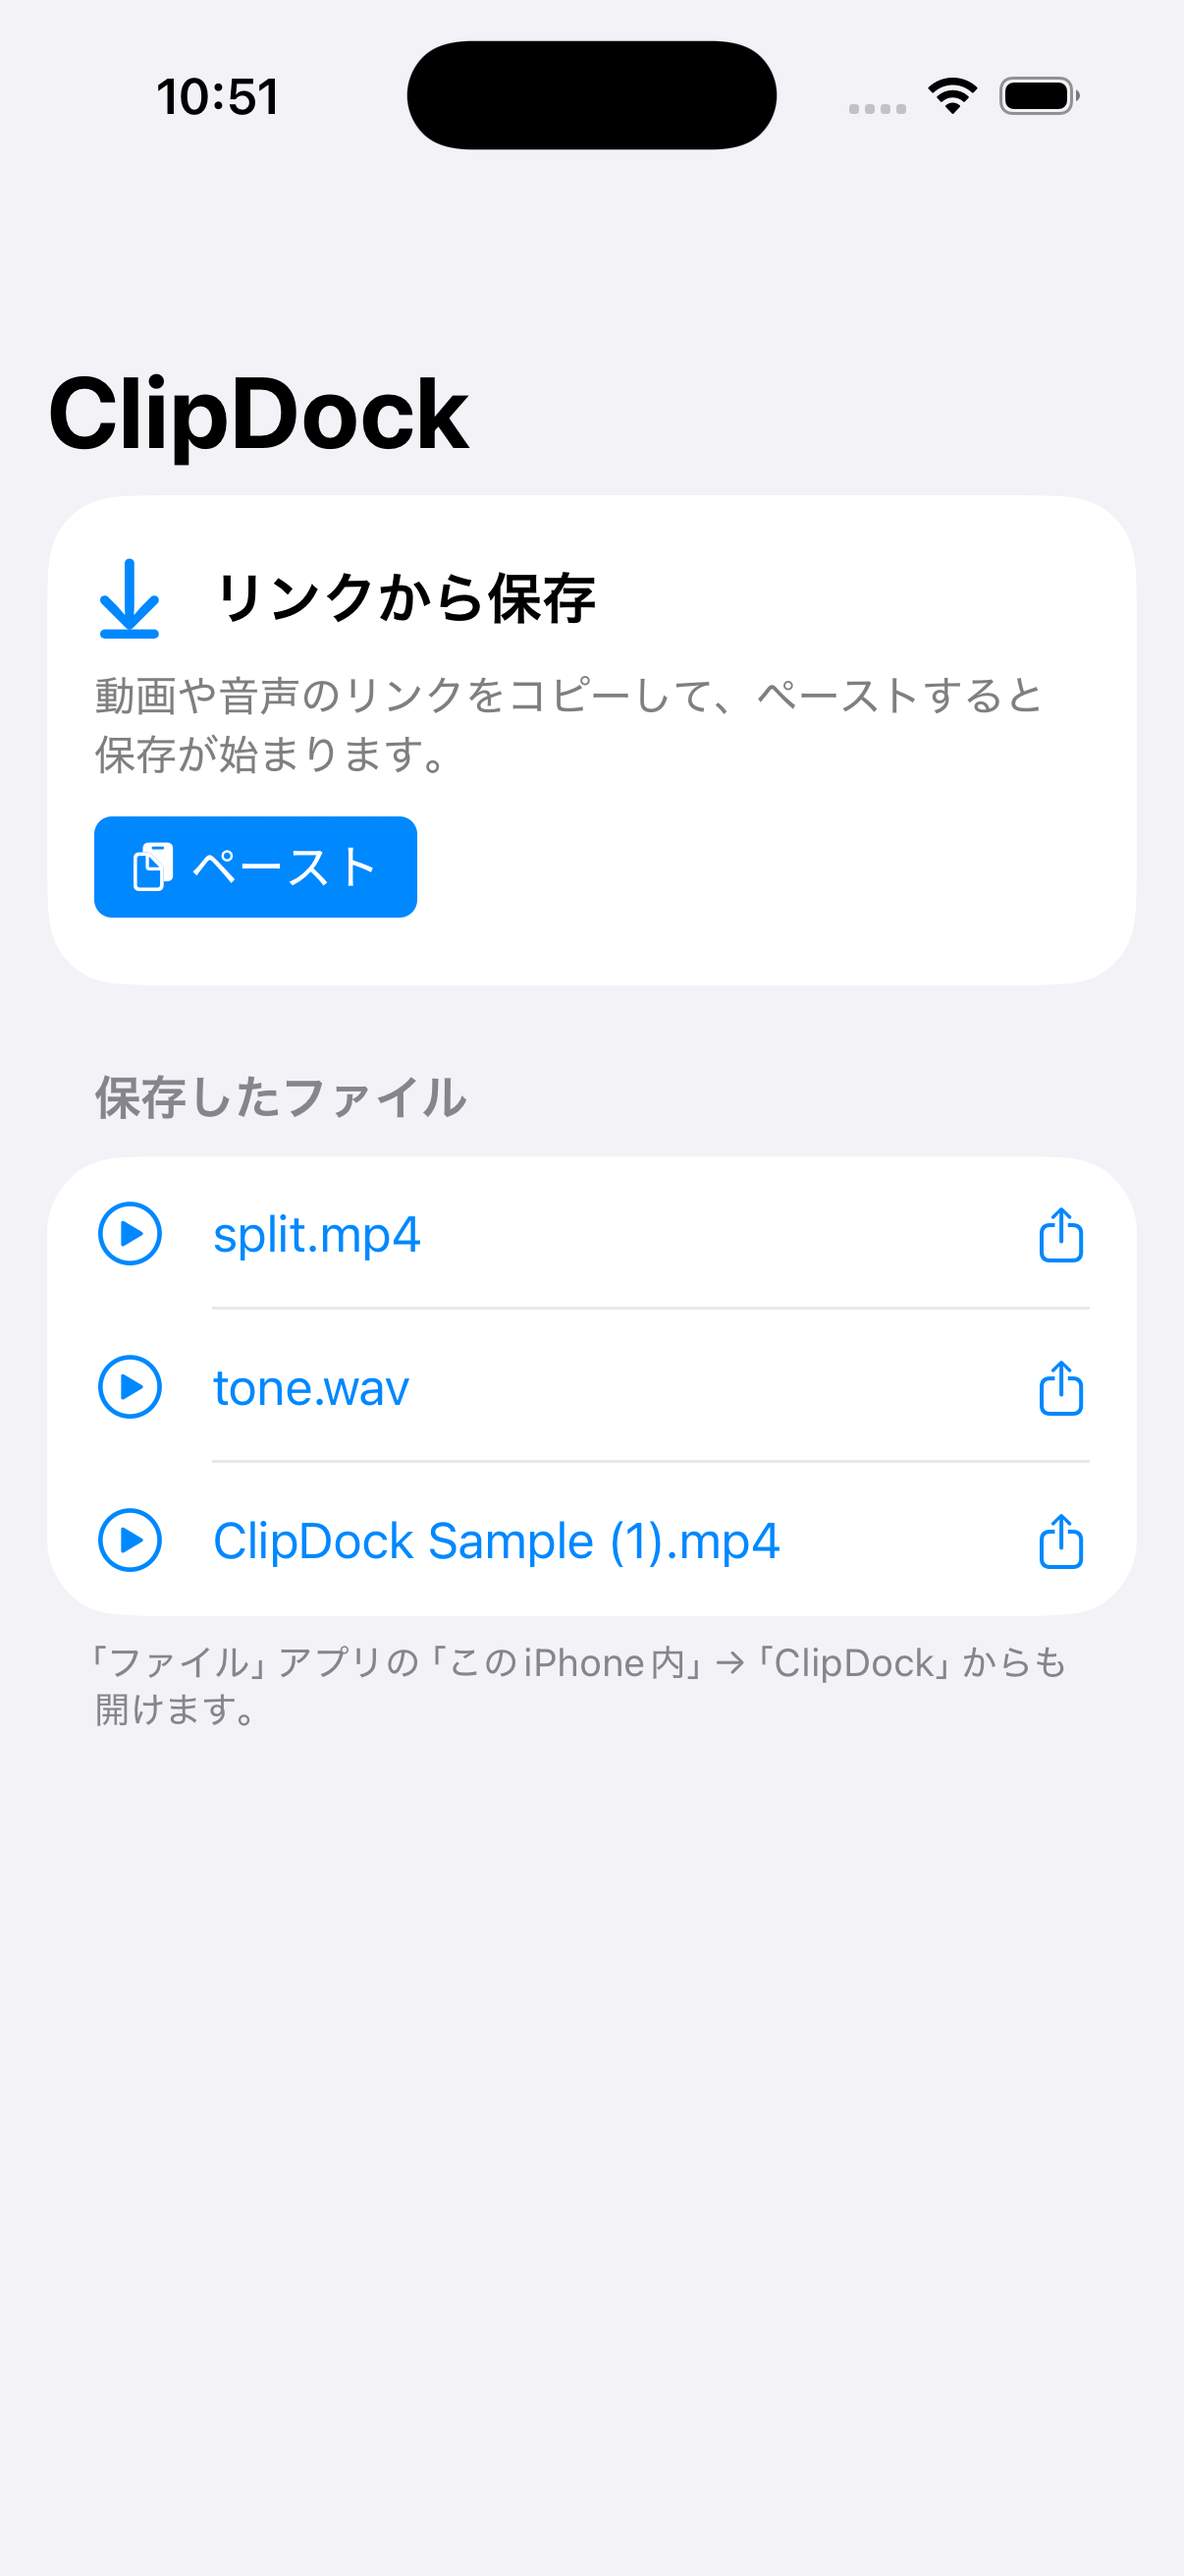
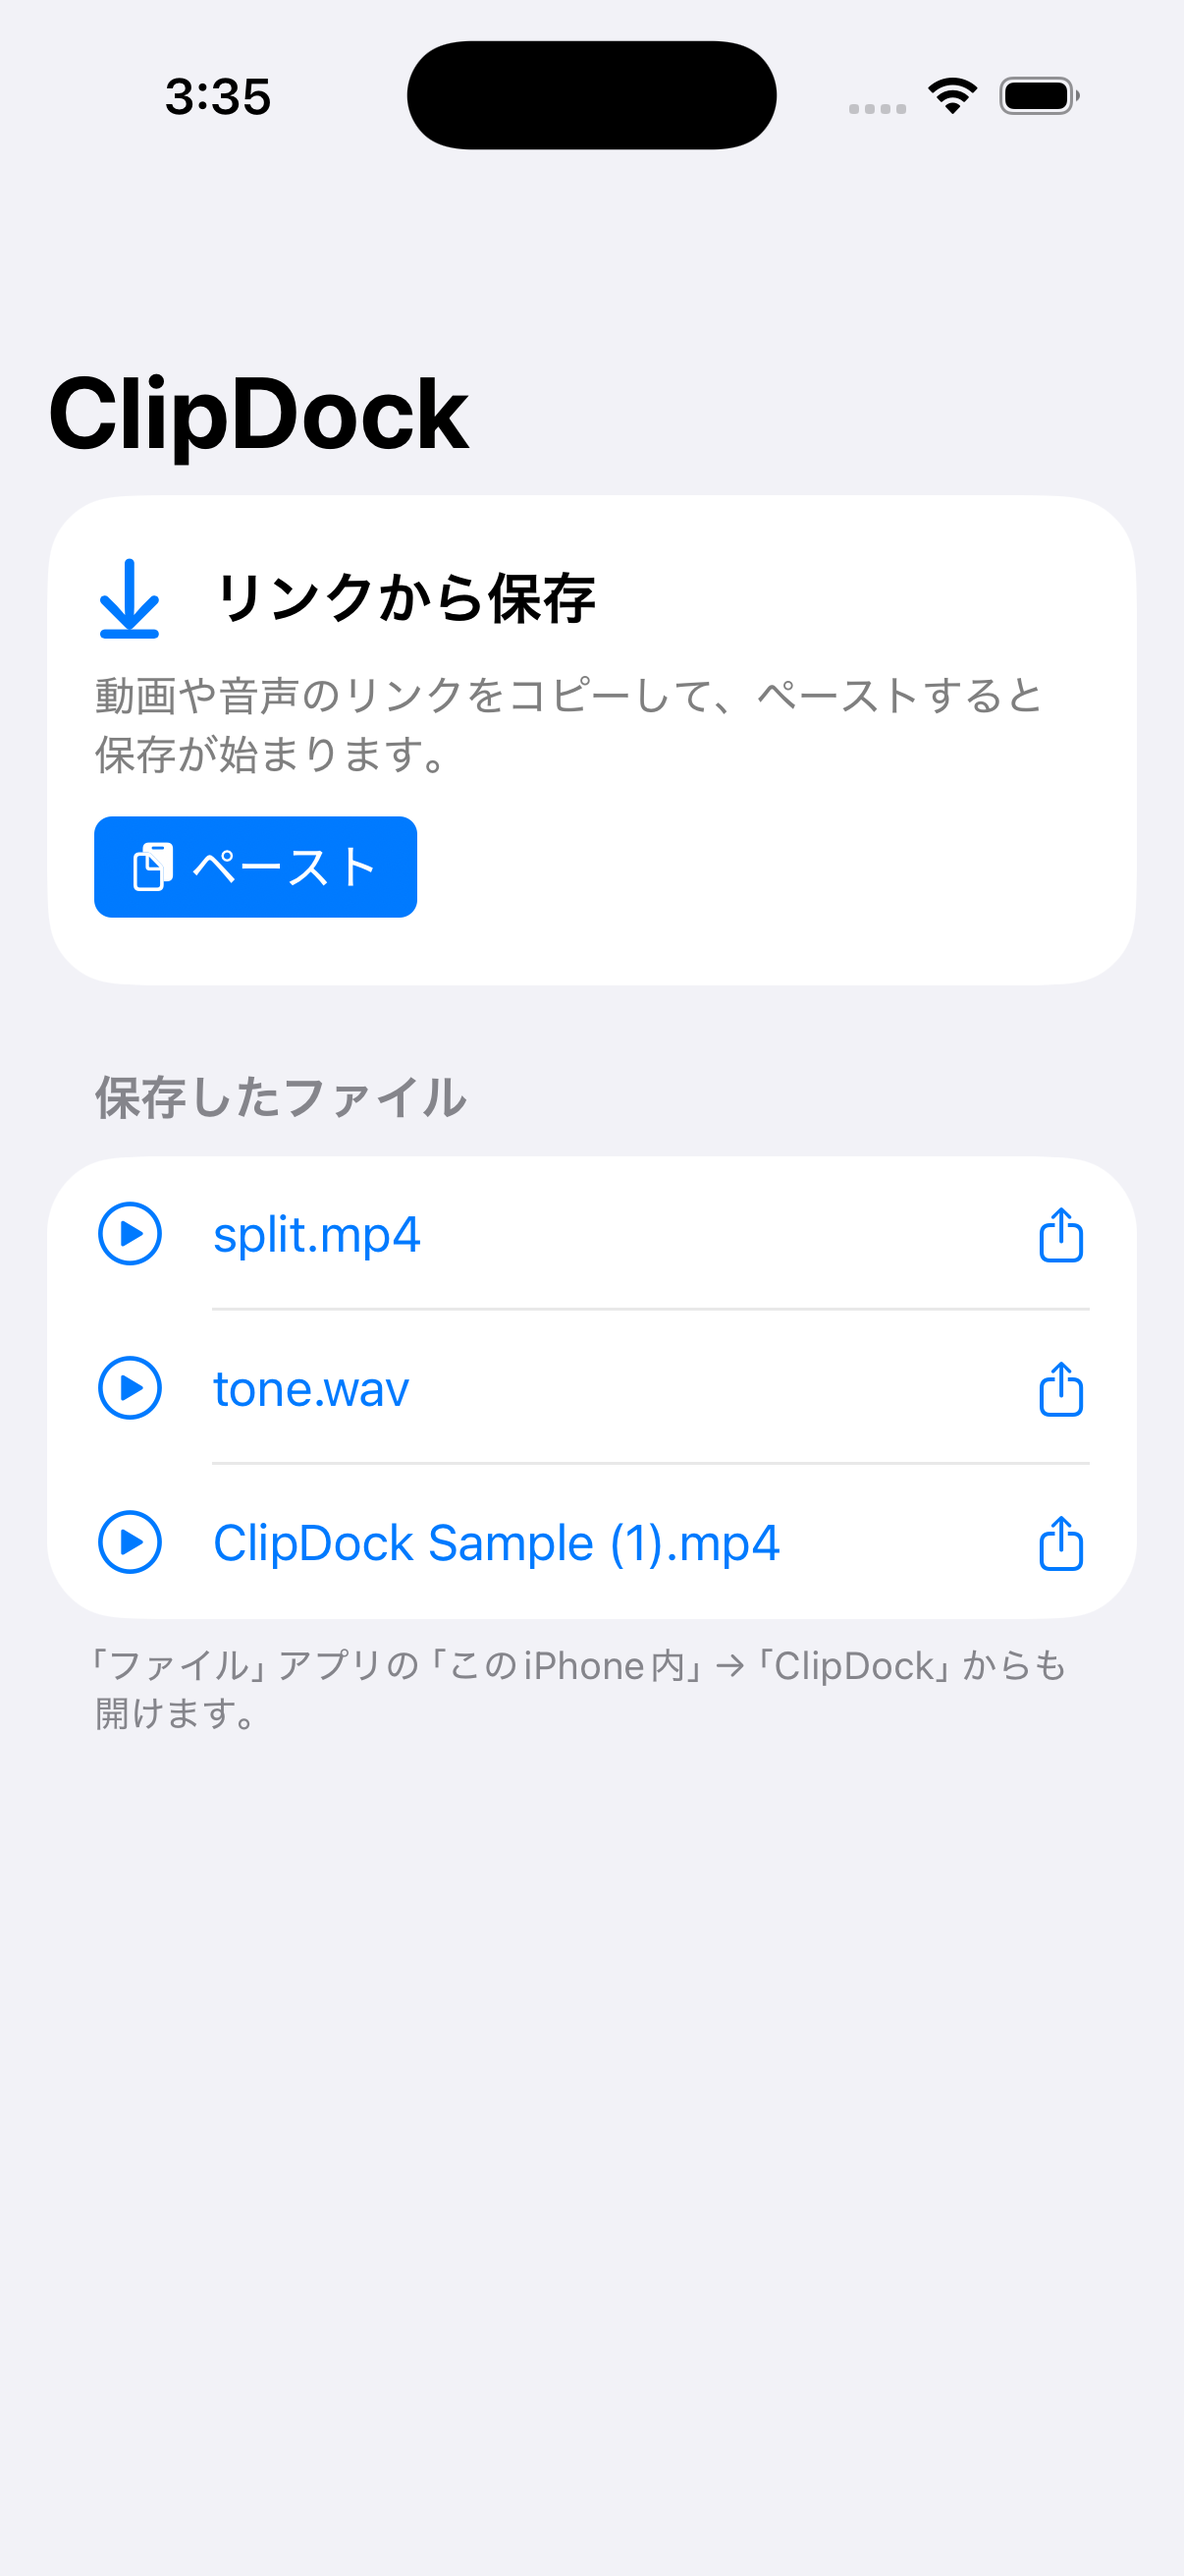
Show verified light and dark iPhone screens

diff --git a/README.md b/README.md
@@ -19,7 +19,7 @@ ClipDockは、動画や音声のリンクを貼り付けて端末に保存する
 
 分割配信（HLS・DASH）や映像と音声が別々に届く動画は、端末内で1本のファイルにまとめます。ログインが必要な動画、DRM付きの動画、配信中のライブ録画、MP3への変換は対象外です。
 
-<img src="docs/images/iphone.png" width="320" alt="iPhone版ClipDockの画面。上部に「ペースト」ボタン、下に保存したファイルと各ファイルの共有ボタンがあります。">
+<img src="docs/images/iphone.png" width="245" alt="日本語・ライトモードのiPhone版ClipDock"> <img src="docs/images/iphone-dark.png" width="245" alt="英語・ダークモードのiPhone版ClipDock">
 
 ### Android
 
